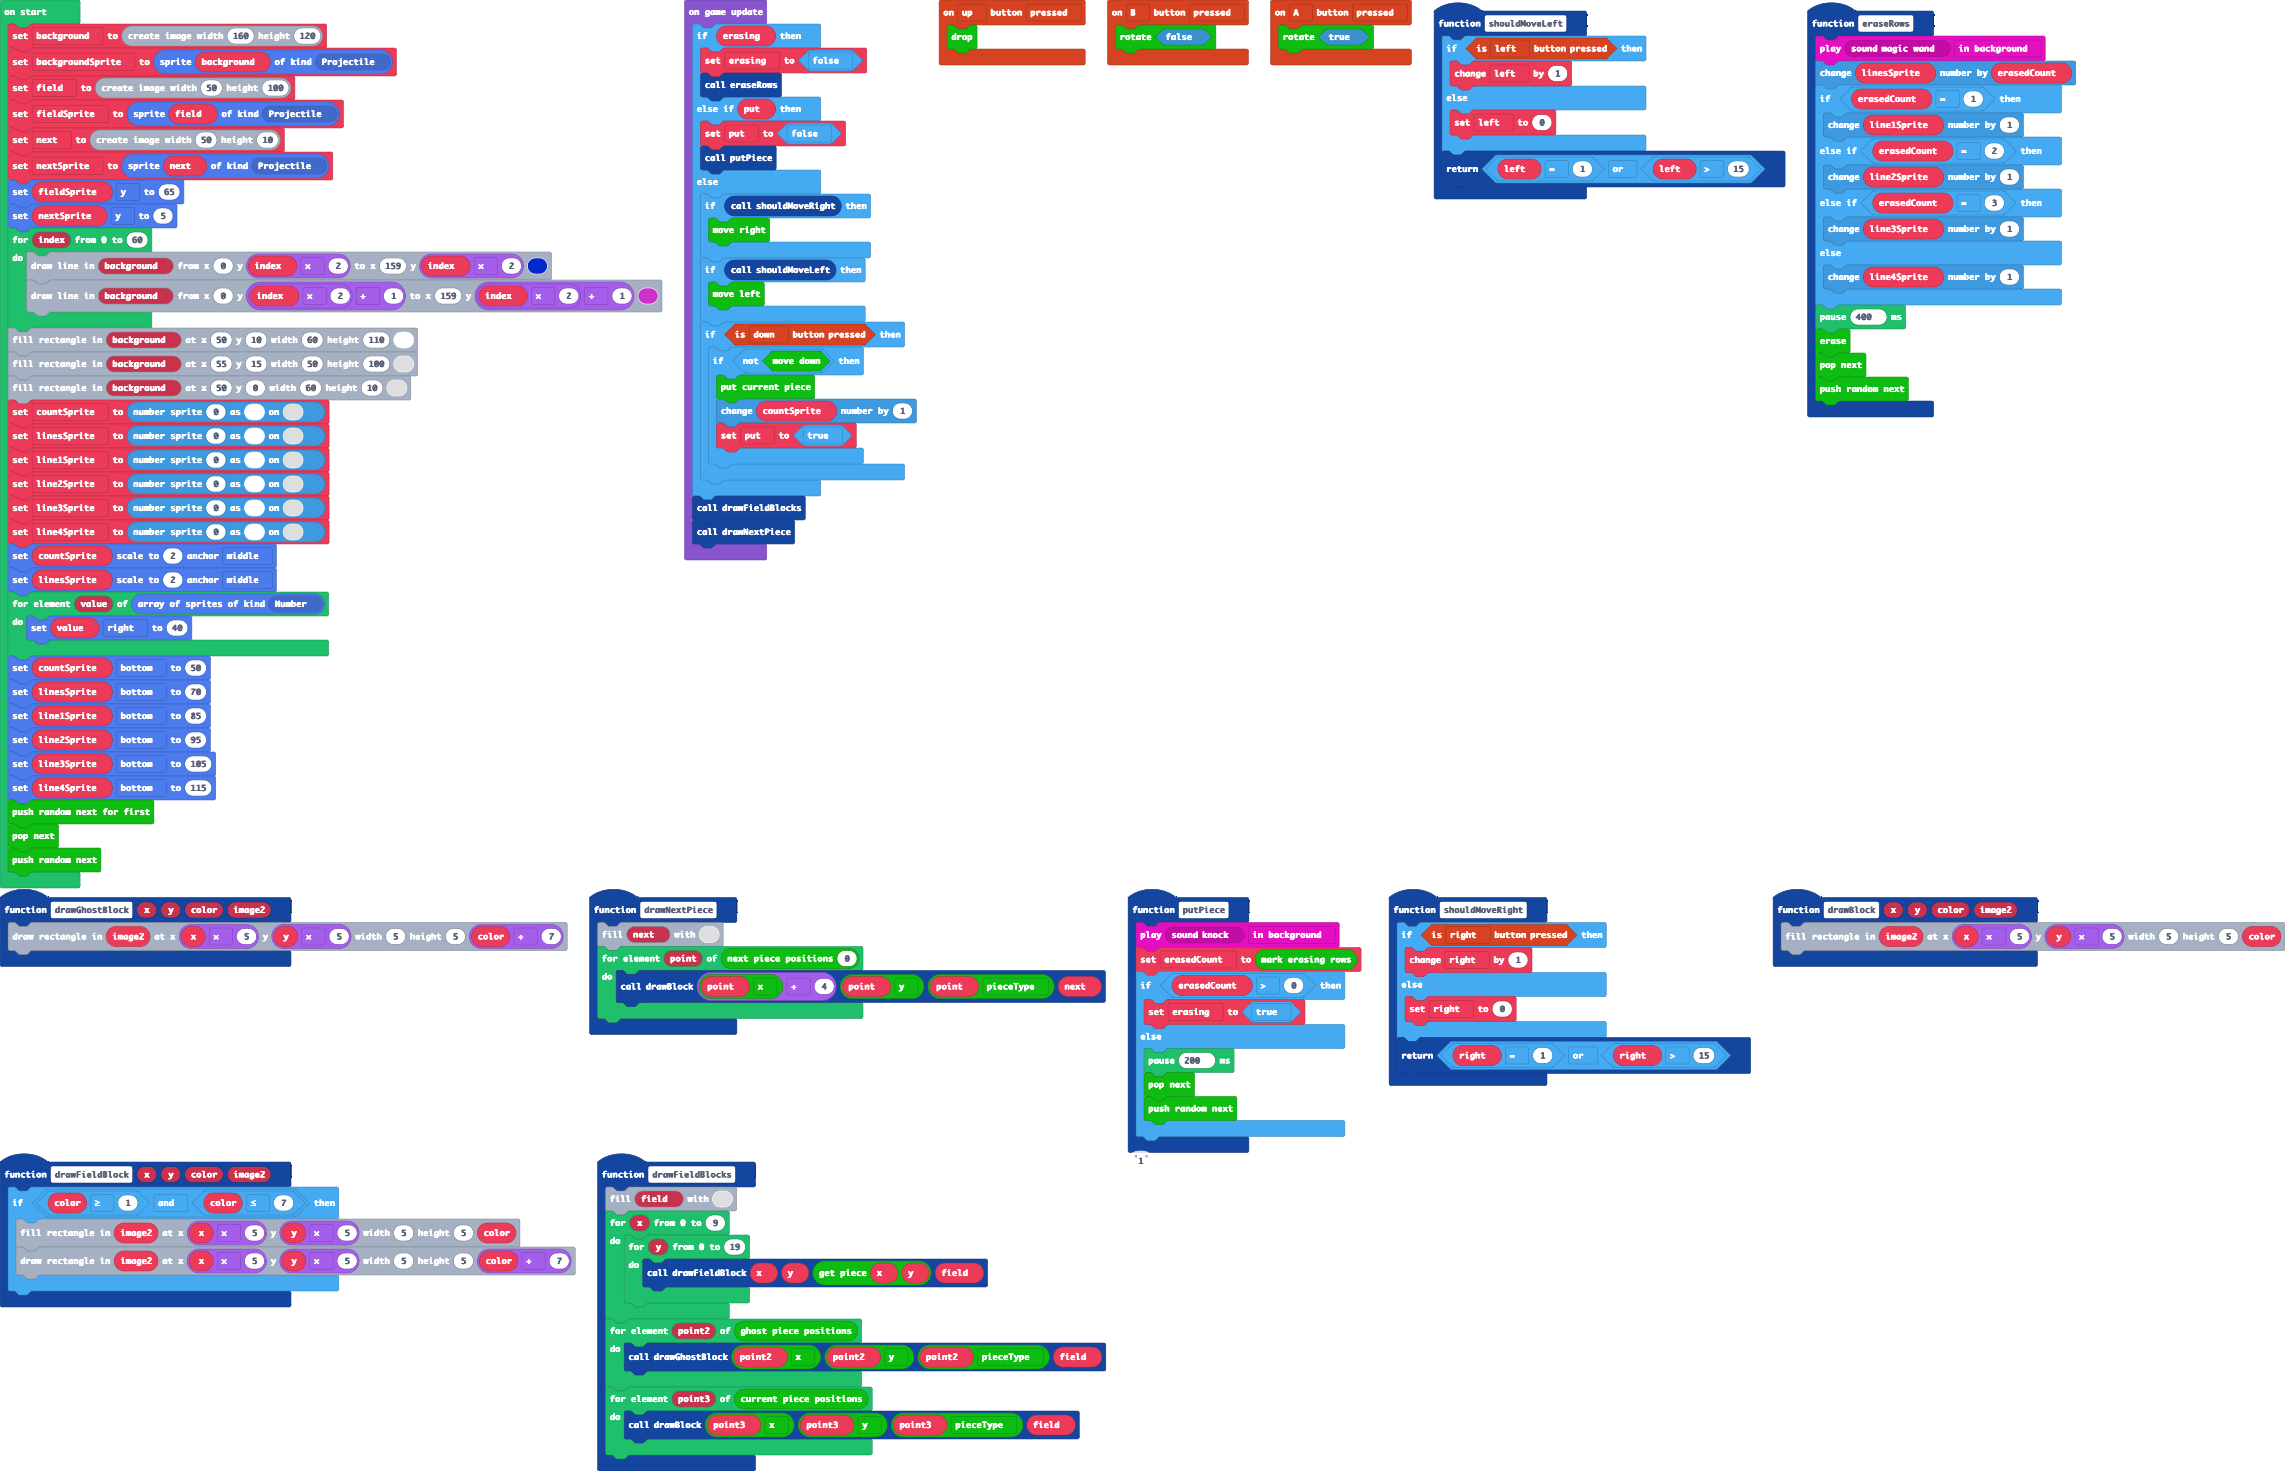
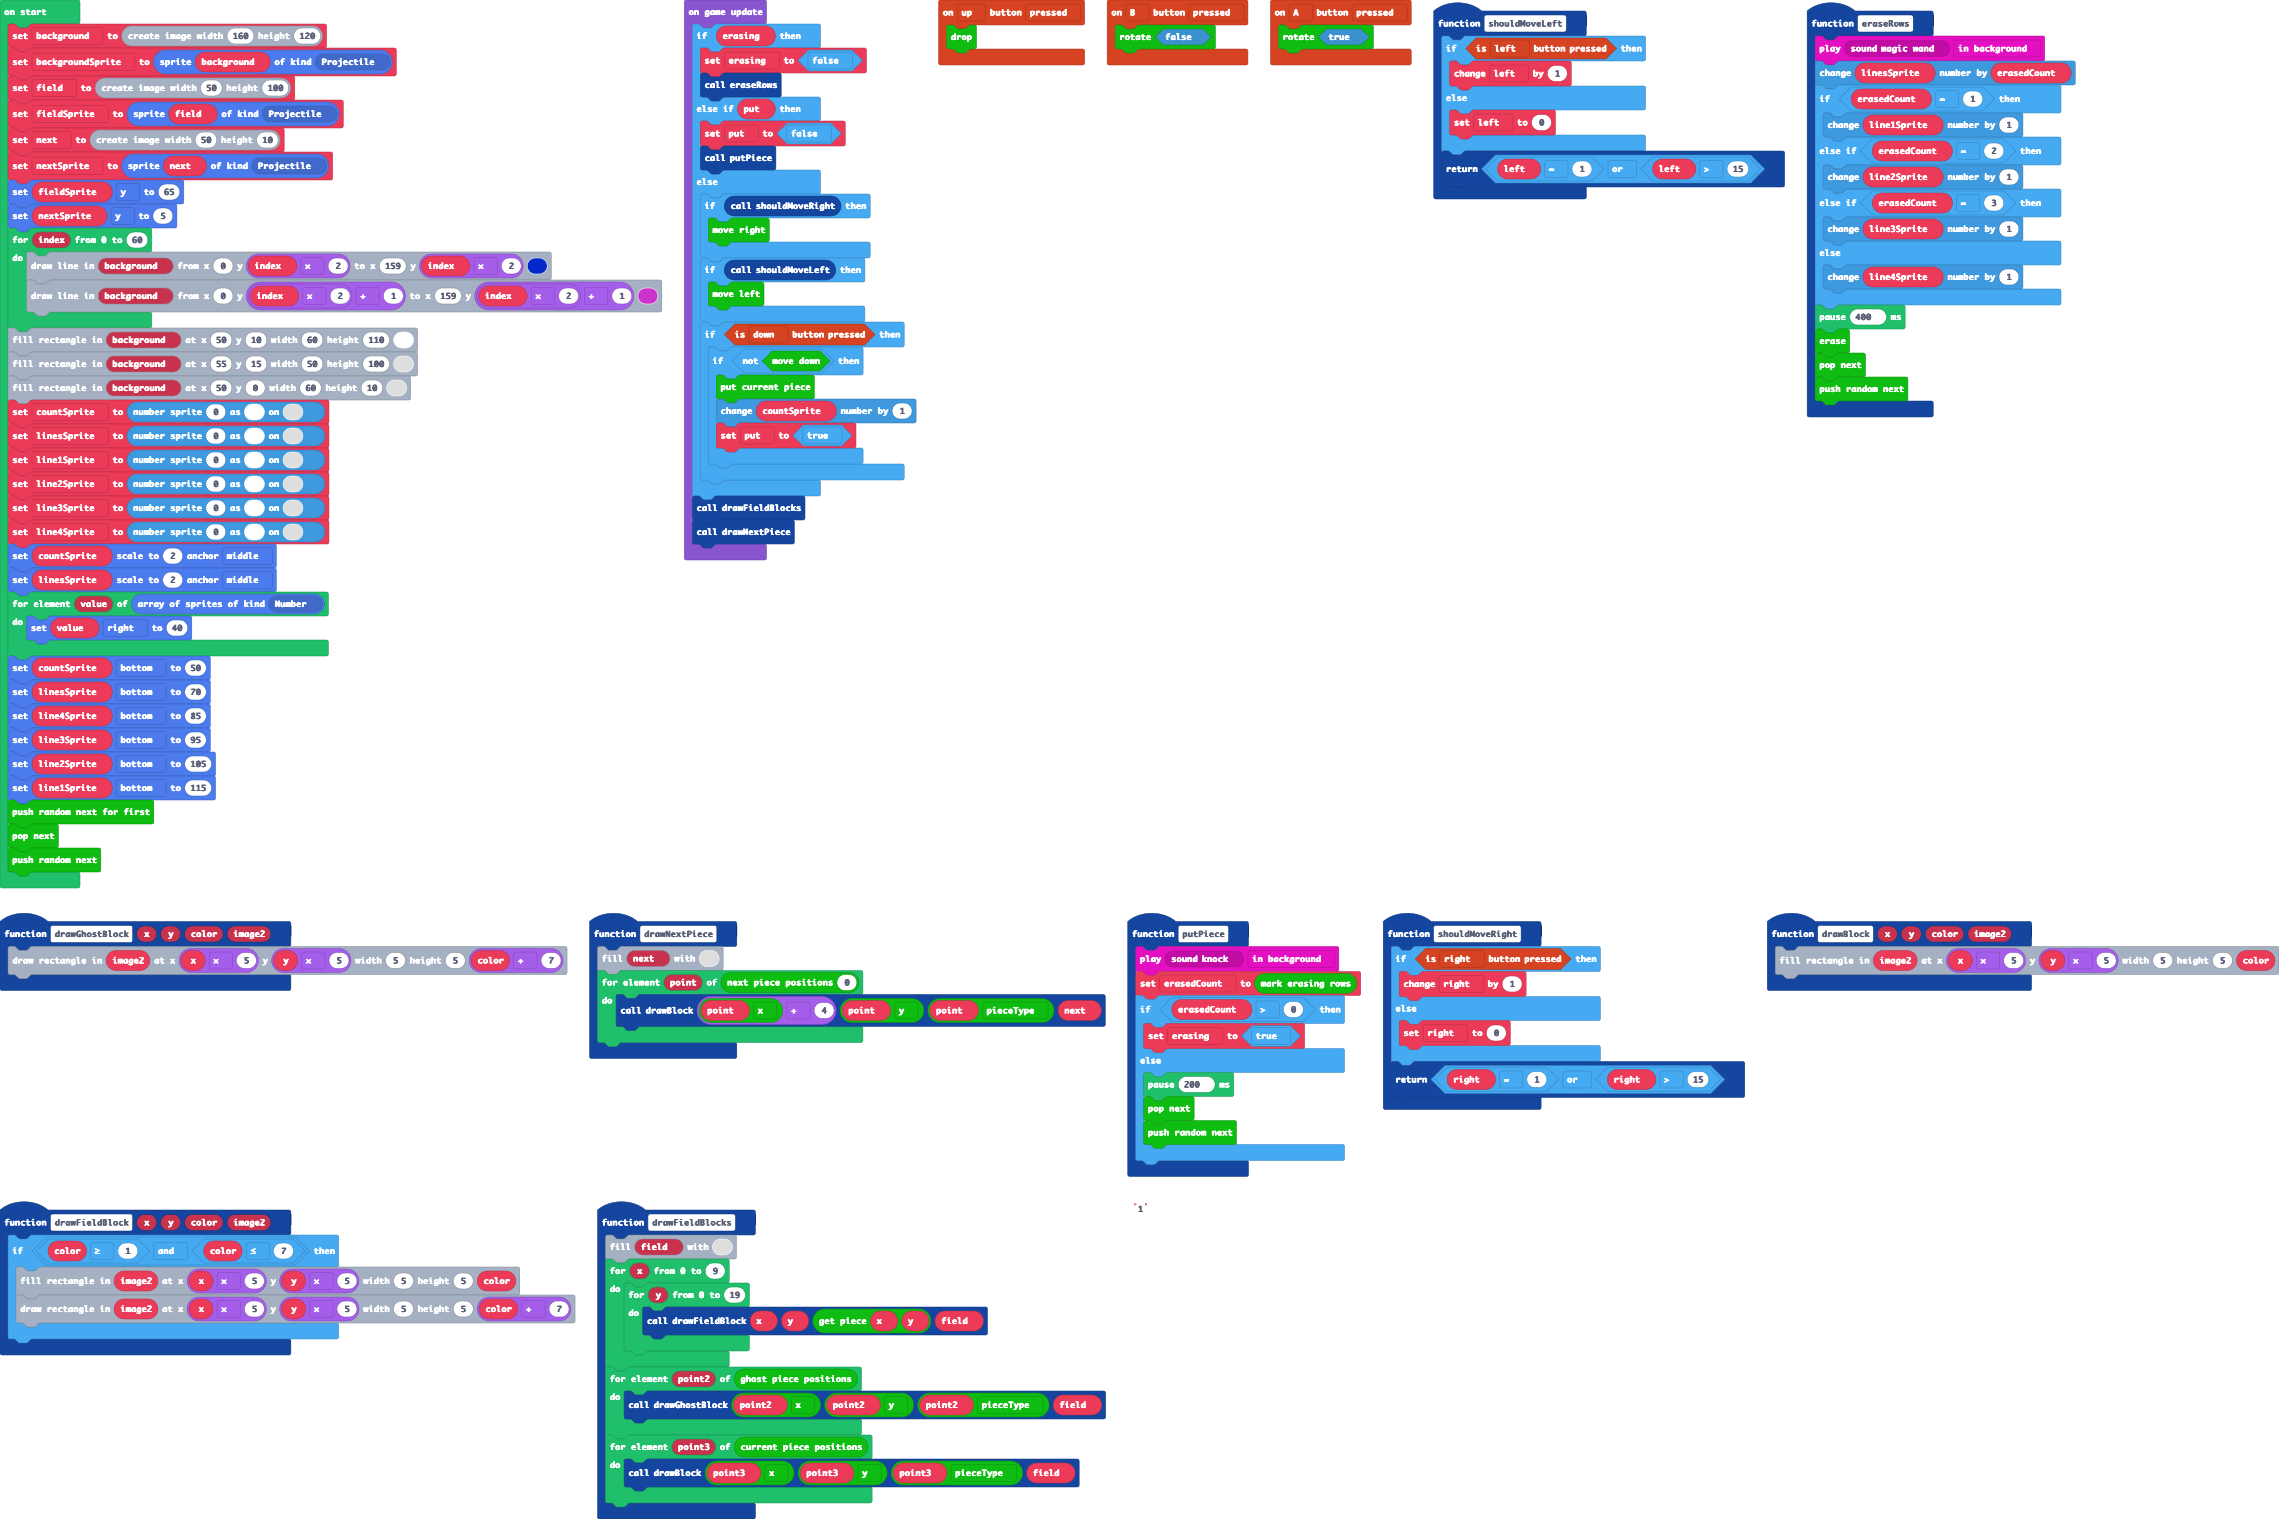
Change the score layout

diff --git a/main.ts b/main.ts
@@ -126,10 +126,10 @@ for (let value of sprites.allOfKind(SpriteKind.Number)) {
 }
 countSprite.bottom = 50
 linesSprite.bottom = 70
-line1Sprite.bottom = 85
-line2Sprite.bottom = 95
-line3Sprite.bottom = 105
-line4Sprite.bottom = 115
+line4Sprite.bottom = 85
+line3Sprite.bottom = 95
+line2Sprite.bottom = 105
+line1Sprite.bottom = 115
 TGM.pushRandomNextForFirst()
 TGM.popNext()
 TGM.pushRandomNext()
